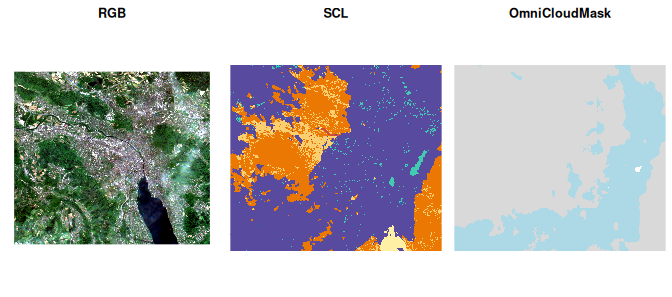
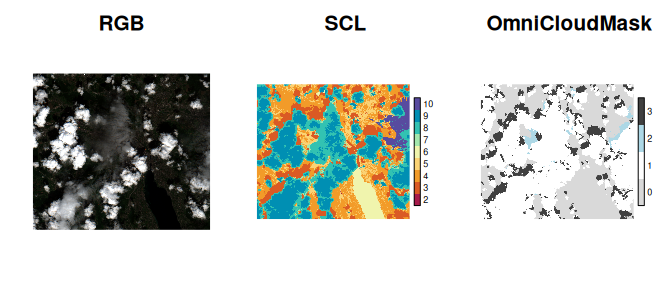
OCM vignette: materialise-once raw-cube flow, preview(na_col=) rendering
preview() gains na_col (nodata painted instead of transparent), so the
vignette drops its ad-hoc plot_rgb/image() helpers for consistent
preview panels with discrete class legends. The Zurich stack is now
materialised once to raw-BSQ cubes via group_by_time |> collect(path =
"zurich-{group}.vrt") and both masking routes plus the composites run
off the local files; demo date pinned to 2024-05-25 (cumulus towers +
hard shadows: OCM annotates cloud+shadow pairs where SCL fragments
into vegetation/water). Roadmap note: grouped collect pulses the
network (one plan per group, no cross-group read overlap).

diff --git a/design/ir-extensions-todo.md b/design/ir-extensions-todo.md
@@ -87,3 +87,14 @@ band should work per chunk; (b) ship geometric-median (fixed-iter Weiszfeld) and
 medoid as reference reducers; (c) a `multi_band_reduce(cube, fn)` convenience
 wrapper matching vrtility's ergonomics; (d) later, a composite-fast-path variant
 for the multi-band shape if it becomes hot. Deferred by Hugh 2026-07-11.
+
+## 5. Grouped-collect read pipelining (observed 2026-08-06)
+
+`group_by_time() |> collect(path = "{group}")` runs one plan per group,
+sequentially: the network profile pulses (fetch burst, then idle
+assemble/compute/write, x n_groups) instead of the single-plan
+fetch-first drain's solid saturation. Per-group fetch counts are also
+small (one tile x few assets), so no single group saturates the link.
+Candidate: prefetch group N+1's read tasks while group N computes and
+writes -- either a shared scheduler across group plans or a lookahead
+fetch queue. Surfaced by the OCM vignette's materialise-per-day step.
